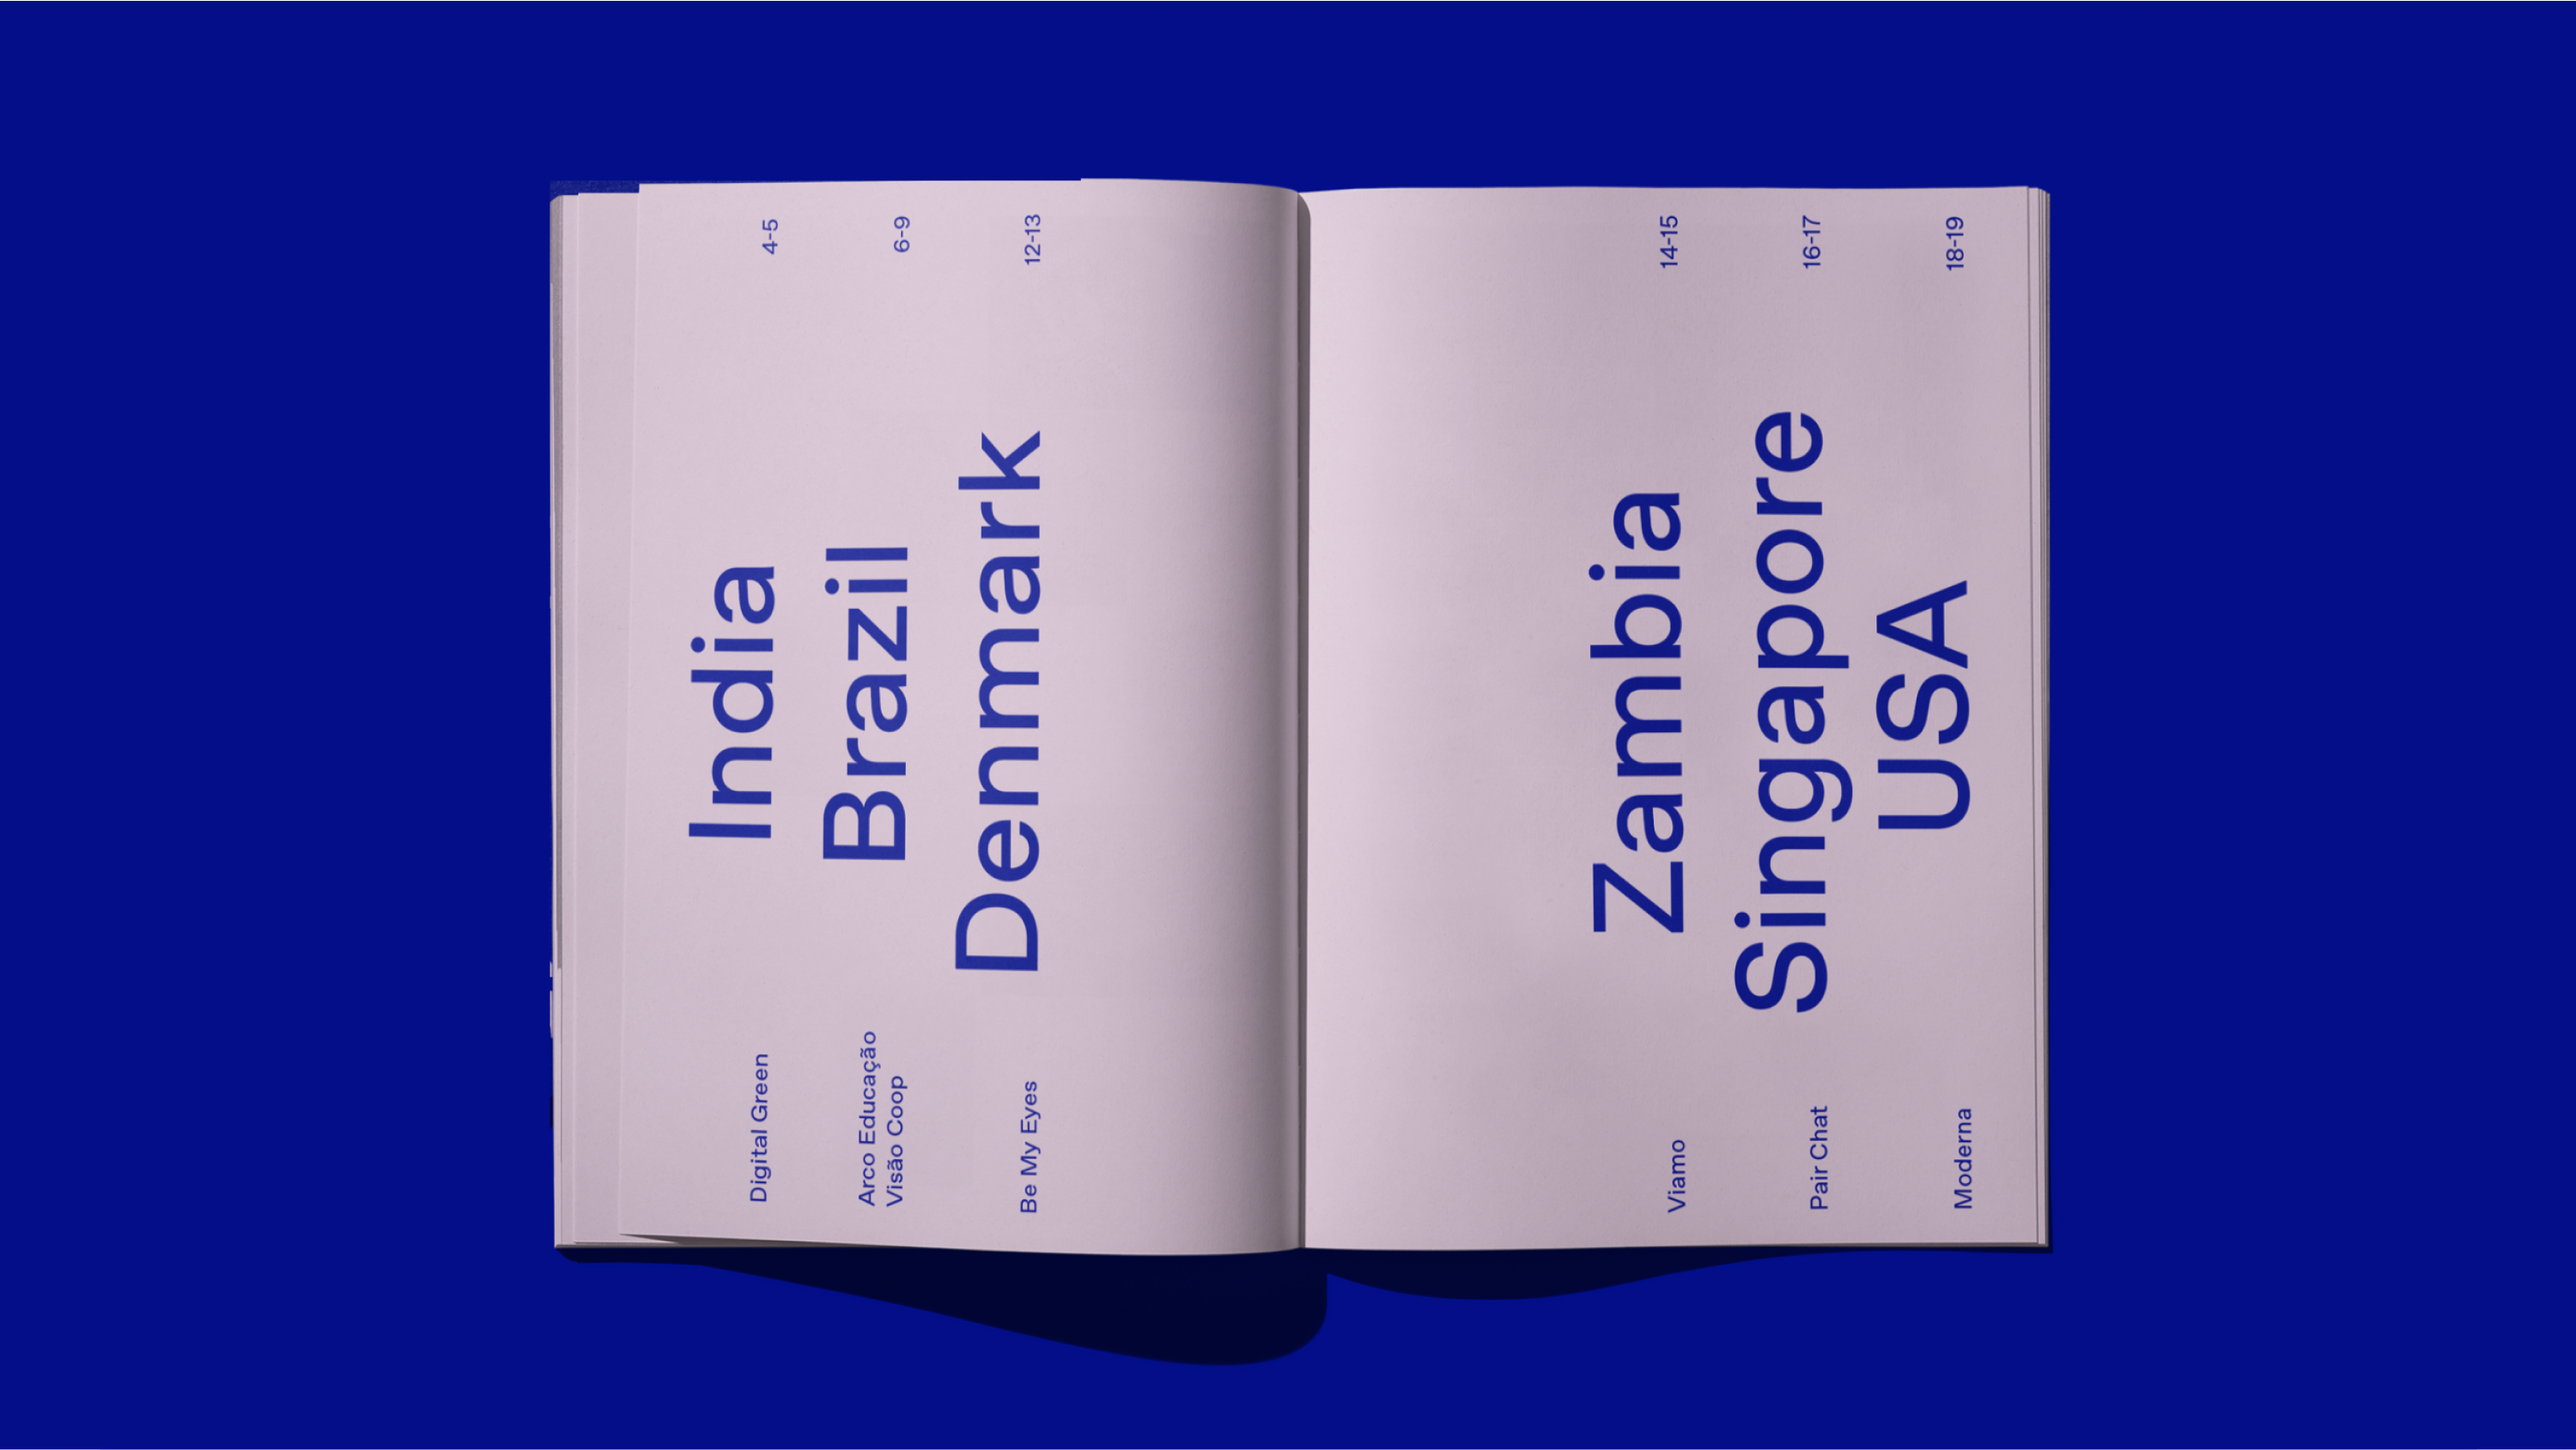
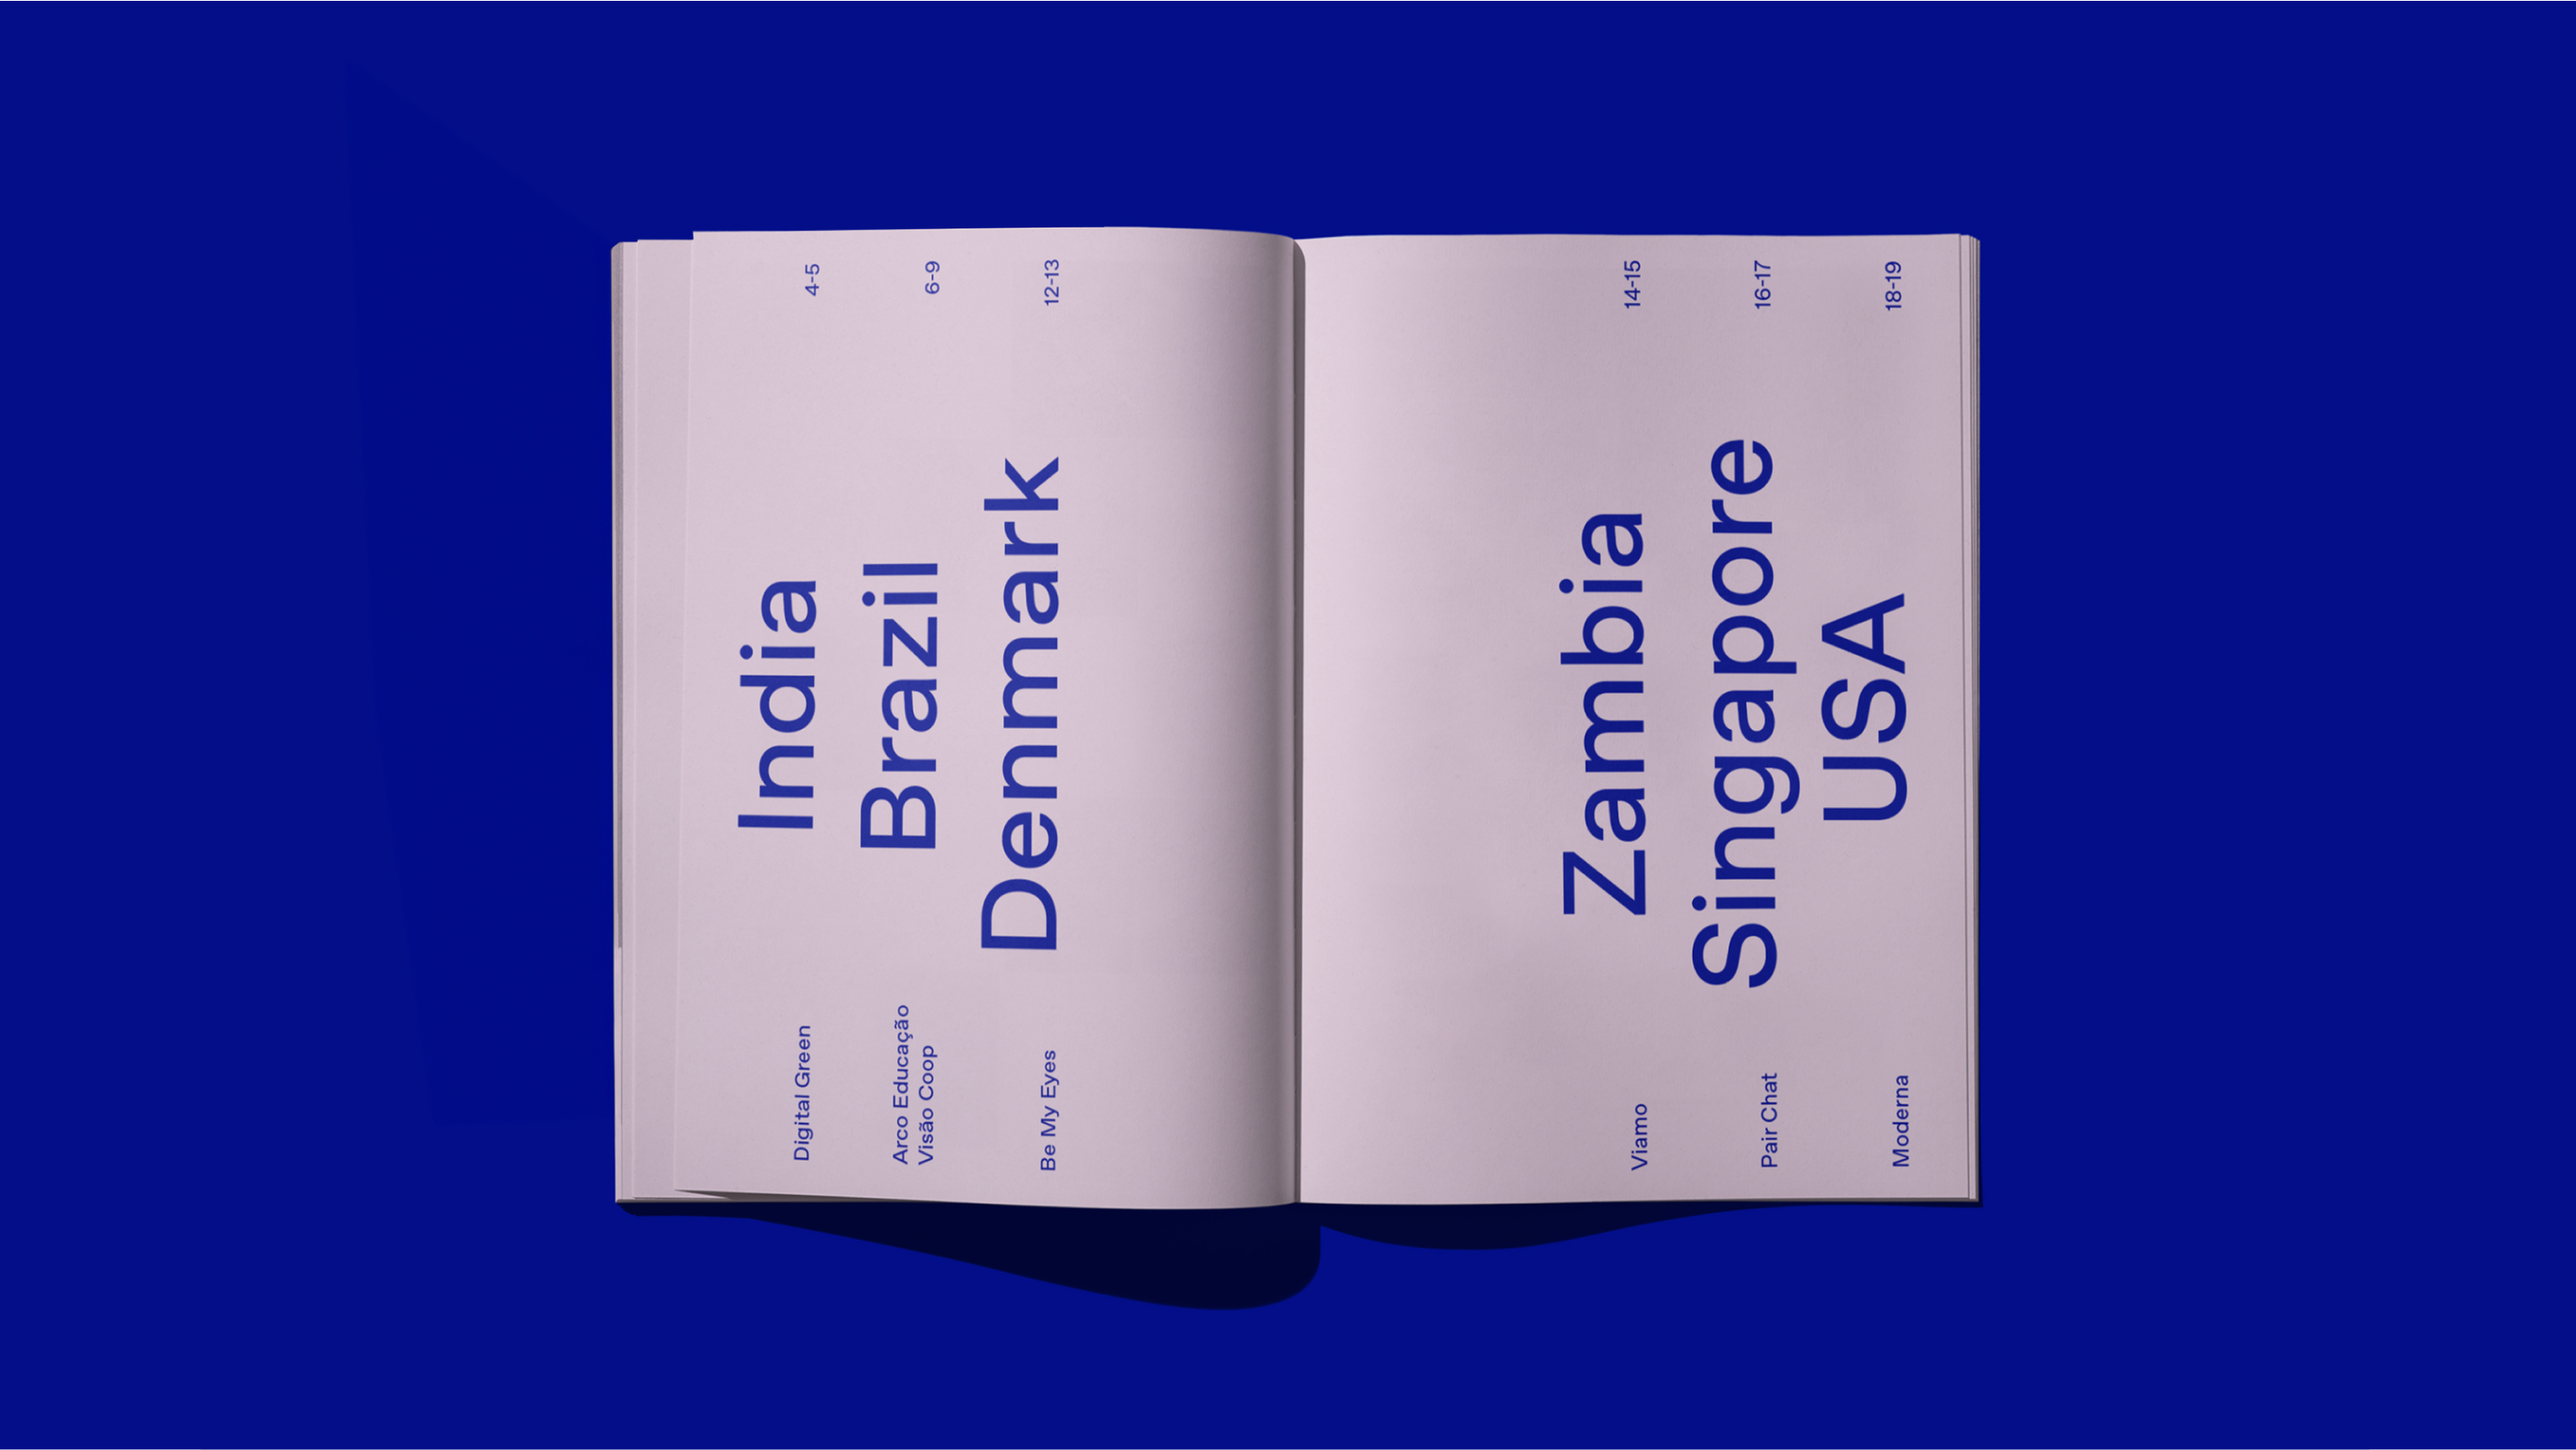
Update image 011 description to SPATIAL DESIGN FOR ACK

Changed region(s): [[0.186, 0.1231, 0.806, 0.9544], [0.403, 0.7697, 0.434, 0.8005]]

diff --git a/index.html b/index.html
@@ -369,7 +369,7 @@ const slides = [
   { type:'image', src:'images/08.jpg', description:'IDENTITY LEXUS HYBRID ART', credits:'× LEXUS' },
   { type:'image', src:'images/09.jpg', description:'TIME CONCEPT ILLUSTRATION', credits:'× PORT MAGAZINE' },
   { type:'image', src:'images/010.jpg', description:'IDENTITY FOR HELP.APP', credits:'× MASHA VDOVINA, KATE MAKAROWSKA' },
-  { type:'image', src:'images/011.jpg', description:'IDENTITY FOR АСК', credits:'× MOSCOW MANEGE' },
+  { type:'image', src:'images/011.jpg', description:'SPATIAL DESIGN FOR ACK', credits:'× MOSCOW MANEGE' },
   { type:'image', src:'images/012.jpg', description:'SPATIAL DESIGN FOR SORA SELECT NEW YORK', credits:'× OPENAI DESIGN STUDIO' },
   { type:'image', src:'images/013.jpg', description:'IDENTITY FOR SORA SELECTS LOS ANGELES', credits:'× OPENAI DESIGN STUDIO, BRAIN DEAD STUDIO' },
   { type:'image', src:'images/014.jpg', description:'MIND GARDEN', credits:'SELF-INITIATED GRAPHIC STUDIES' },
